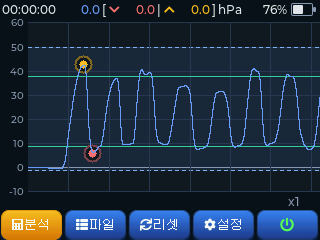
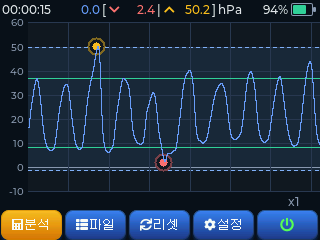
docs(manual): 표 열폭 정리 + 분석/마커 스크린샷 갱신
- 5.2 패턴 표(pat3): 1열 25%로 좁히고 내용 긴 곡선특징·기술의미 열 확대
  (table-layout:fixed, 첫 열 nowrap 해제)
- 8.설정 표(setbl ×4): '페이지' 헤더가 세로로 쪼개지지 않게 nowrap 유지
- screen-analysis.png / screen-markers.png 최신본 반영 (별님 교체)

diff --git a/manual.html b/manual.html
@@ -65,6 +65,11 @@
   tbody tr:nth-child(even){background:var(--soft);}
   table.faq{table-layout:fixed;}
   table.faq th:first-child,table.faq td:first-child{width:32%;white-space:normal;word-break:break-all;overflow-wrap:anywhere;}
+  /* 5.2 패턴 표: 1열 좁히고 내용 긴 2·3열 넓게 (고정 레이아웃) */
+  table.pat3{table-layout:fixed;}
+  table.pat3 th:first-child,table.pat3 td:first-child{width:25%;white-space:normal;}
+  /* 8.설정 표: '페이지' 헤더가 세로로 쪼개지지 않게 한 줄 유지 */
+  table.setbl th:nth-child(2){white-space:nowrap;}
 
   blockquote{margin:12px 0;padding:10px 14px;border-radius:6px;
              background:var(--soft);border-left:4px solid #9bb0c4;color:#33485e;font-size:14px;}
@@ -370,7 +375,7 @@
 </div>
 <p>Equalscope는 측정 곡선의 형태를 보고 다섯 가지 기술 패턴 중 하나로 분류합니다.
 1차로 <strong>상승 속도</strong>를 보고 진동형(반복 가압)인지 유지형(압력 유지)인지 나눈 뒤, 세부 형태로 기술을 판정합니다.</p>
-<table>
+<table class="pat3">
   <thead><tr><th>패턴</th><th>곡선 특징</th><th>기술적 의미</th></tr></thead>
   <tbody>
     <tr><td><strong>발살바</strong></td><td>느린 상승, <strong>넓은 피크</strong>(정점 유지 김)</td><td>배·흉부 압력 위주. 깊은 수심에선 한계. 프렌젤 전환 권장 대상</td></tr>
@@ -562,7 +567,7 @@
   <figure><img src="assets/theme-neon.png" alt="네온 테마"><figcaption>네온</figcaption></figure>
   <figure><img src="assets/theme-lavender.png" alt="라벤더 테마"><figcaption>라벤더</figcaption></figure>
 </div>
-<table>
+<table class="setbl">
   <thead><tr><th>항목</th><th>페이지</th><th>범위 / 선택</th><th>설명</th></tr></thead>
   <tbody>
     <tr><td><strong>테마</strong></td><td>1</td><td>밝은 · 연지 · 단풍 · 라임 · 하늘 · 네온 · 라벤더 (7종)</td><td>색상 테마 선택</td></tr>
@@ -572,7 +577,7 @@
 </table>
 
 <h3 id="s8_2">8.2 소리</h3>
-<table>
+<table class="setbl">
   <thead><tr><th>항목</th><th>페이지</th><th>범위</th><th>설명</th></tr></thead>
   <tbody>
     <tr><td><strong>볼륨</strong></td><td>1</td><td>0~100 %</td><td>메트로놈·알람음 크기 (슬라이더)</td></tr>
@@ -585,7 +590,7 @@
 </table>
 
 <h3 id="s8_3">8.3 그래프</h3>
-<table>
+<table class="setbl">
   <thead><tr><th>항목</th><th>페이지</th><th>범위</th><th>설명</th></tr></thead>
   <tbody>
     <tr><td><strong>Y축 최고</strong></td><td>3</td><td>10~200 hPa (5 단위)</td><td>그래프 세로축 위쪽 한계</td></tr>
@@ -595,7 +600,7 @@
 </table>
 
 <h3 id="s8_4">8.4 기타</h3>
-<table>
+<table class="setbl">
   <thead><tr><th>항목</th><th>페이지</th><th>범위</th><th>설명</th></tr></thead>
   <tbody>
     <tr><td><strong>자동 종료</strong></td><td>1</td><td>0~120 분</td><td>일정 시간 무동작 시 자동으로 전원 끔. <strong>0이면 자동 종료 안 함</strong></td></tr>